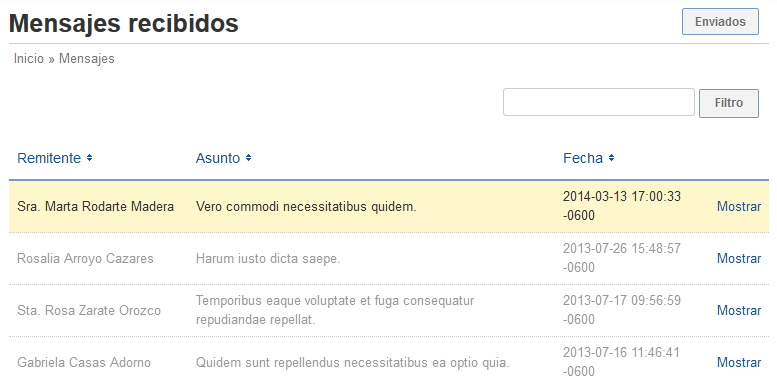
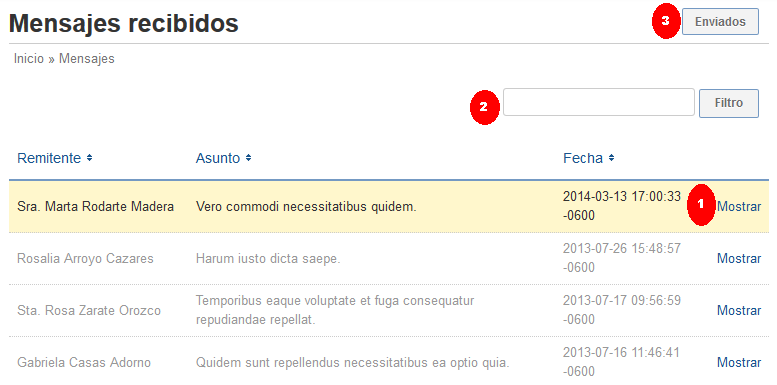
Estudiantes

Changed region(s): [[0.8649, 0.4675, 0.9266, 0.5922], [0.834, 0.0, 0.8958, 0.1247], [0.5869, 0.2182, 0.6486, 0.3429]]

diff --git a/docs/estudiantes.md b/docs/estudiantes.md
@@ -1,0 +1,276 @@
+---
+layout: docs
+title: Estudiantes
+permalink: /docs/estudiantes/
+---
+
+Al ingresar en la opción *Estudiantes* en el menú se desplegará un listado de los estudiantes del sistema con la opción para ingresar al 
+[expediente del estudiante](#expediente_del_estudiante):
+
+![listado](/img/docs/estudiantes_index.png)
+
+Adicionalmente, el listado cuenta con las siguientes opciones:
+
+- Por defecto, se muestran los estudiantes del periodo lectivo actual. Si se quiere visualizar información histórica, se debe *Mostrar filtros* **(1)**
+  y seleccionar un periodo lectivo diferente.
+- Si el número de estudiantes es demasiado extenso, se puede *Mostrar filtros* **(1)** y limitar los resultados por código, nombres y/o apellidos,
+  periodo lectivo o clase.
+- Si se cuenta con el permiso *ESTUDIANTE_CREATE*, se desbloquea la opción *Nuevo* **(2)** para [ingresar un estudiante](#crear_estudiante) sin ninguna ayuda,
+  o alternativamente se puede *Importar* **(3)** la [información del estudiante](#importar_estudiante) desde el sistema administrativo.
+- Si se cuenta con el permiso *ESTUDIANTE_MANAGE*, se desbloquea la opción *Importar fotos* **(4)** que nos permite 
+  [actualizar las fotos de los estudiantes masivamente](#importar_fotos).
+
+<div class="note info">
+  <h5>Seguridad</h5>
+  <p>Para acceder a esta funcionalidad se necesita:</p>
+  <ul>
+    <li>Permiso <i>ESTUDIANTE_READ</i> para visualizar todos los estudiantes del sistema.</li>
+    <li>Objeto tipo <i>Estudiante</i> o <i>Pariente</i> para visualizar los estudiantes que estén asignados al usuario.</li>
+    <li>Objeto tipo <i>Docente</i> para visualizar todos los estudiantes que estén en una sección del cual el docente sea guía.</li>
+    <li>Objeto tipo <i>Nivel</i> o <i>Clase</i> con el rol <i>ESTUDIANTE_READ</i> para visualizar todos los estudiantes del nivel o clase determinado.</li>
+  </ul>
+</div>
+
+## Crear estudiante
+
+Al dar clic en la opción de crear estudiante se despliega el siguiente formulario:
+
+![nuevo](/img/docs/estudiantes_new.png)
+
+El formulario está dividido en diferentes secciones:
+
+- *Datos Generales*: Datos generales y de contacto del estudiante. Se puede incluir una foto para el estudiante, ya sea seleccionando una 
+  imagen en la computadora actual **(1)**, o se puede utilizar la opción *Tomar* **(2)** para tomar una fotografía desde una cámara que se 
+  encuentre conectada a la computadora.
+- *Datos Académicos*: Se debe asociar al estudiante a una sección específica, y especificar la fecha de transferencia (para estudiantes que se transfieren
+  de otros colegios) y si el estudiante es repitente.
+- *Datos Médicos*: Información médica del estudiante. Todos los campos de esta sección son opcionales.
+
+Luego de enviar el formulario exitosamente, se podrá acceder al expediente del estudiante.
+
+<div class="note info">
+  <h5>Seguridad</h5>
+  <p>Para acceder a esta funcionalidad se necesita el permiso <i>ESTUDIANTE_CREATE</i>.</p>
+</div>
+
+## Importar estudiante
+
+Alternativamente, si el estudiante ya se ha ingresado en el sistema administrativo y ya cuenta con un código de estudiante, entonces se puede
+importar dicha información utilizando esta funcionalidad:
+
+![importar](/img/docs/estudiantes_importar.png)
+
+Primeramente se debe introducir el *Código* del estudiante en el campo de texto y darle clic a la opción *Obtener datos*. En caso de éxito, se consultará
+directamente la base de datos administrativa y se extraerá la información general, académica y de los padres de familia y responsables del estudiante, la
+cual se desplegará en el mismo formulario para que el usuario la verifique antes de ingresar el estudiante:
+
+![importar](/img/docs/estudiantes_importar_2.png)
+
+En el caso de los pares de familia y responsables, se da la opción de ingresar o no individualmente cada uno de ellos:
+
+![importar](/img/docs/estudiantes_importar_3.png)
+
+<div class="note warning">
+  <h5>Errores al importar estudiante</h5>
+  <p>Para que esta funcionalidad funcione correctamente, la estructura académica debe ser igual en ambos sistemas, en particular:</p>
+  <ul>
+    <li>No debe haber un estudiante con el mismo código en el sistema.</li>
+    <li>La información a importar es únicamente la del último periodo lectivo ingresado en el sistema administrativo. Por consiguiente, si en el sistema 
+      administrativo ya están ingresadas las listas del próximo ciclo, no será posible importar la información de nuevos estudiantes del ciclo actual, incluso
+      cuando este no haya terminado.</li>
+    <li>El <i>ciclo</i> del sistema administrativo debe coincidir con el <i>nombre corto</i> del periodo lectivo actual, y este debe estar abierto.</li>
+    <li>El <i>nivel</i> del sistema administrativo debe coincidir con el <i>nombre corto</i> del nivel en el sistema.</li>
+    <li>El <i>grado</i> del sistema administrativo debe estar ingresado como una <i>clase</i> en el sistema para el nivel especificado.</li>
+    <li>La <i>sección</i> del sistema administrativo debe estar ingresada en el sistema para la clase especificada.</li>
+  </ul>
+</div>
+
+<div class="note">
+  <h5>Importar estudiantes masivamente</h5>
+  <p>Se puede hacer uso de la opción <i>Importar</i> del <a href="/docs/periodos_lectivos/#importar">periodo lectivo</a>, lo cual, además de importar las 
+    listas de estudiantes del sistema administrativo, procederá a crear nuevos usuarios con el código del estudiante como login y con el estudiante ya 
+    asignado al usuario.</p>
+</div>
+
+<div class="note info">
+  <h5>Seguridad</h5>
+  <p>Para acceder a esta funcionalidad se necesita el permiso <i>ESTUDIANTE_CREATE</i>.</p>
+</div>
+
+## Importar fotos
+
+Se puede utilizar esta opción para actualizar de forma masiva las fotos de los estudiantes del sistema:
+
+![importar_fotos](/img/docs/estudiantes_importar_fotos.png)
+
+La importación se puede llevar a cabo de 2 maneras diferentes:
+
+- Se puede subir un archivo comprimido al servidor, el cual deberá especificarse en el campo *Archivo a cargar*. Si se pretende utilizar esta opción, se
+  recomienda que las fotos se suban ya comprimidas, para que de esta forma el archivo a cargar no sea demasiado grande. Una vez se suba el archivo,
+  el sistema lo descomprimirá en una carpeta temporal.
+- Alternativamente se pueden cargar las imágenes directamente en el servidor, para lo cual deberá ingresarse la dirección local de la carpeta o archivo 
+  comprimido en el campo *Ruta archivo o directorio*. Si la ruta corresponde a un archivo comprimido, se procederá a descomprimirlo en una carpeta temporal.
+
+En cualquiera de los dos casos, el sistema procesará las fotos en en una tarea de fondo del servidor, el cual una vez finalizado enviará una notificación
+al usuario actual con un log del procesamiento, en el que se listarán todos los archivos procesados y cualquier error que se encontrase.
+
+El sistema procesará todas las fotos que se encuentren en el directorio, no importa en qué subcarpeta estén. De esta forma, el usuario puede organizar
+las fotos en cualquier estructura de directorio que le resulte más conveniente. El único requerimiento es que las fotos deben tener como nombre de archivo
+el código del estudiante para que el sistema pueda identificar al estudiante en cuestión. De esta forma, el archivo *1234.jpg*, por ejemplo, se utilizará
+para actualizar la foto del estudiante con el código *1234*, siempre que este existiese.
+
+Las fotos subidas se guardarán con un tamaño de 768 pixeles de ancho por 1024 pixeles de alto. No importa que se ingresen fotos con mayores dimensiones,
+siempre que se respete la proporción de 3 de ancho por 4 de alto. En caso contrario, la foto será recortada en la dirección de la dimensión en exceso.
+
+<div class="note info">
+  <h5>Seguridad</h5>
+  <p>Para acceder a esta funcionalidad se necesita el permiso <i>ESTUDIANTE_MANAGE</i>.</p>
+</div>
+
+## Expediente del estudiante
+
+![detalles](/img/docs/estudiantes_show.png)
+
+Las opciones de esta pantalla son las siguientes:
+
+- Opción para [enviar un mensaje](/docs/mensajes/#crear_mensaje) **(1)** privado a este estudiante.
+- Opción para *Editar* los detalles del estudiante **(2)**, si se cuenta con el permiso *ESTUDIANTE_UPDATE* y el periodo lectivo está abierto, 
+  lo cual desplegará el formulario de actualización de estudiante con la mayoría de los campos del [formulario de creación](#crear_estudiante).
+- Opción para *Eliminar* el estudiante **(3)**, si se cuenta con el permiso *ESTUDIANTE_MANAGE*, el periodo lectivo esté abierto y el estudiante
+  no tenga calificaciones ingresadas.
+
+Por su parte, los detalles del expediente del estudiante se visualizan en las siguientes pestañas:
+
+### General
+
+Información general del estudiante, la cual se mantiene estática o cambia muy esporádicamente. Contiene mayormente información básica y de contacto
+del estudiante (código, nombres y apellidos, dirección, fecha y lugar de nacimiento, etc.).
+
+En la parte inferior se puede acceder a un registro de cambios **(4)** en el que se puede visualizar las modificaciones que ha sufrido la 
+información a lo largo del tiempo:
+
+![historial](/img/docs/estudiante_historial.png)
+
+Para las acciones de modificación se puede visualizar los detalles del expediente del estudiante antes de efectuarse la modificación:
+
+![historial](/img/docs/estudiante_show_version.png)
+
+- La opción *Restaurar* **(1)** se puede utilizar para revertir la información del estudiante, lo cual puede ser útil para revertir errores
+  al modificar el expediente. Para esto se necesita el permiso *ESTUDIANTE_UPDATE*.
+- La opción *Eliminar* **(2)** puede ser útil si se quiere limpiar el historial del estudiante si acaso se incurrió en algún error durante su
+  modificación. Para esto se necesita el permiso *ESTUDIANTE_MANAGE*.
+
+### Académico
+
+Información académica del estudiante, la cual es diferente para cada periodo lectivo (periodo lectivo, nivel, grado, sección, docente guía, etc.).
+
+![academico](/img/docs/estudiantes_show_academico.png)
+
+- Se puede [visualizar la clase](/docs/clases/#detalles_de_la_clase) **(1)** del estudiante si se cuenta con el permiso *CLASE_READ*.
+- Se puede [visualizar la sección](/docs/secciones/#detalles_de_la_seccion) **(2)** del estudiante si se cuenta con el permiso *SECCION_READ*. Adicionalmente, 
+  si se cuenta con el permiso *ESTUDIANTE_CLASE_MANAGE*, se puede acceder a la opción para transferir al estudiante a una sección diferente.
+- Se puede [visualizar el docente guía](/docs/docentes/#expediente_del_docente) **(3)** del estudiante si se cuenta con el permiso *DOCENTE_READ*.
+  Adicionalmente, se cuenta con la opción para [enviarle un mensaje privado](/docs/mensajes/#crear_mensaje).
+
+Cabe mencionar que las pestañas de *Materias*, *Horarios*, *Médico* e *Incidencias* dependen de la información académica que se tenga seleccionada. Por esta razón,
+en la parte inferior de esta pestaña se muestran enlaces **(4)** para visualizar el expediente y calificaciones del estudiante en dicho periodo lectivo.
+
+<div class="note warning">
+  <h5>Transferencia de estudiante</h5>
+  <p>Al transferir al estudiante a mitad del periodo lectivo se debe ser cuidadoso con las calificaciones existentes, puesto que estas no serán eliminadas, 
+    y puede con facilidad dar lugar al ingreso de calificaciones duplicadas para el estudiante, excediendo el porcentaje de acumulado definido para la materia.
+    Queda a criterio del docente efectuar los ajustes necesarios en estos casos.</p>
+</div>
+
+### Materias
+
+En esta pestaña se muestra un listado de las materias que cursa el estudiante para el periodo lectivo seleccionado en la pestaña *Académico*.
+
+![academico](/img/docs/estudiantes_show_materias.png)
+
+- Se puede [visualizar la materia](/docs/materias/#detalles_de_la_materia) **(1)** si se cuenta con el permiso *MATERIA_READ*.
+- Se puede [visualizar el docente](/docs/docentes/#expediente_del_docente) **(2)** que imparte la materia si se cuenta con el permiso *DOCENTE_READ*. Adicionalmente,
+  se cuenta con la opción para [enviarle un mensaje privado](/docs/mensajes/#crear_mensaje).
+- Se pueden visualizar todas evaluaciones, exámenes y consolidados de la materia, con sus respectivas descripciones y observaciones, al darle clic a la opción
+  *Detalle* **(3)**:
+
+![calificacion](/img/docs/estudiante_calificacion.png)
+
+Alternativamente, se pueden visualizar las calificaciones del estudiante en su totalidad al acceder al enlace *Calificaciones* en la pestaña de *Materias* **(4)**, 
+la cual se muestra de la siguiente manera:
+
+![calificacion](/img/docs/estudiante_calificaciones.png)
+
+La hoja de calificaciones contiene en forma tabular todas las calificaciones del estudiante para todas las materias que se encuentra cursando. Esta información se 
+encuentra organizada en los diferentes bloques evaluativos o bimestres que conforman el periodo lectivo
+
+<div class="note info">
+  <h5>Opciones de visualización de la hoja de calificaciones</h5>
+  <ul>
+    <li>Las evaluaciones se encuentran ocultas por defecto y solo se muestra la columna del <i>Total Acumulado</i>. Para desplegarlas, dar clic en la cabecera del
+      bloque evaluativo <b>(3)</b></li>
+    <li>Puesto que el área de la pantalla se encuentra reducida por el menú y estilo del sistema, se recomienda maximizar el área de contenido dando clic en el 
+      ícono <i>Cambiar modo de pantalla</i> localizado en la esquina superior izquierda de la pantalla. Adicionalmente, el reporte cuenta con una barra de desplazamiento
+      horizontal en la parte inferior de la pantalla <b>(5)</b> para facilitar su visualización</li>
+    <li>Al situar el cursor encima de cualquier evaluación o examen se visualizará una burbuja mostrando el porcentaje de la evaluación en el total de la calificación.
+      Si la calificación se encuentra subrayada <b>(4)</b>, se le mostrarán adicionalmente los comentarios del docente</li>
+  </ul>
+</div>
+
+Alternativamente, se puede exportar la información de este reporte en formato Excel de dos formas diferentes:
+
+- Si únicamente interesan los bloques consolidados, se puede utilizar la opción *Exportar todo* **(1)**, lo cual exporta las notas bimestrales, semestrales y finales
+  y los despliega como un boletín de calificaciones
+- Si se quiere visualizar el detalle de las evaluaciones, la opción **Exportar BLOQUE** **(2)** resulta más adecuada, puesto que exporta todas las calificaciones
+  del bloque evaluativo que se seleccione, incluyendo los detalles de las evaluaciones y comentarios del docente
+
+### Horario
+
+Muestra el horario de clases del estudiante, si acaso estuviese disponible.
+
+![horario](/img/docs/estudiantes_show_horario.png)
+
+### Médico
+
+Muestra el expediente médico del estudiante, con su información general (altura, peso, tipo de sangre, alergias, etc.), así como también una bitácora médica con
+sucesos médicos propios del estudiante.
+
+![medico](/img/docs/estudiantes_show_medico.png)
+
+Si se cuenta con el permiso *ESTUDIANTE_MEDICO* y el periodo lectivo está abierto, se podrá tanto *Editar* **(1)** los datos básicos del expediente, como
+*Agregar* **(2)** nuevos sucesos a la bitácora médica del estudiante, lo cual nos desplegará el siguiente formulario:
+
+![medico](/img/docs/estudiantes_show_medico_create.png)
+
+Una vez ingresado el suceso, se podrá [visualizar los detalles del suceso](/docs/registro_medicos/#detalles_del_suceso) **(3)**.
+
+### Padres y Responsables
+
+Muestra los nombres e información de contacto del padre, madre y responsable(s) del estudiante.
+
+![responsables](/img/docs/estudiantes_show_responsables.png)
+
+Si existen responsables asignados al estudiante, se presentan las siguientes opciones:
+
+- Opción para *Eliminar* **(1)** la información del responsable, si se cuenta con el permiso *PARIENTE_MANAGE*. Si el responsable únicamente está asociado a este estudiante,
+  entonces se eliminará; caso contrario, solamente se eliminará la asociación.
+- Opción para *Editar* **(2)** la información del responsable, si se cuenta con el permiso *PARIENTE_UPDATE*.
+- Opción para *Mostrar* **(3)** la [información del responsable](/docs/parientes/#detalles_del_pariente), si se cuenta con el permiso *PARIENTE_READ*.
+- Al igual que el expediente de los estudiantes, se puede acceder a un registro de cambios **(4)** en el que se puede visualizar las modificaciones que ha sufrido la 
+  información a lo largo del tiempo
+
+Si el estudiante no tiene un padre o madre asignado, en su lugar aparecerá la opción para *Agregar* el responsable en cuestión, lo cual desplegará el 
+[formulario de creación de pariente](/docs/parientes/#crear_pariente).
+
+### Incidencias
+
+Muestra los sucesos en los que se encuentra involucrado el estudiante, que pueden afectar ya sea a toda la clase, sección o al estudiante en particular.
+
+![incidencias](/img/docs/estudiantes_show_incidencias.png)
+
+Si se cuenta con el permiso *ESTUDIANTE_UPDATE* y el periodo lectivo está abierto, se contará con la opción *Nueva* para ingresar una incidencia, lo que desplegará
+el siguiente formulario:
+
+![incidencias](/img/docs/estudiantes_show_incidencias_new.png)
+
+Una vez ingresada la incidencia, se podrá [visualizar los detalles del suceso](/docs/incidencias/#detalles_de_la_incidencia).

diff --git a/docs/seguridad.md b/docs/seguridad.md
@@ -85,9 +85,9 @@ de los estudiantes. Para lograr el resultado deseado se deberá asignar objetos 
 Para darle accesos limitados al usuario se le puede asignar un objeto determinado, lo cual le otorgará diversos permisos dependiendo del 
 tipo de objeto que se le asigne:
 
-- **Estudiante**: Permite visualizar el expediente del estudiante.
-- **Pariente**: Permite visualizar los expedientes de los estudiantes de los cuales el pariente es responsable (esto se puede visualizar
-  en el expediente del estudiante en cuestión, en la pestaña *Responsables*). 
+- **Estudiante**: Permite visualizar el expediente del estudiante, siempre y cuando estén solventes.
+- **Pariente**: Permite visualizar los expedientes de los estudiantes solventes de los cuales el pariente es responsable (esto se puede visualizar
+  en el expediente del estudiante en cuestión, en la pestaña *Responsables*).
 - **Docente**: Le otorga varios accesos al docente, dependiendo de la forma en la que esté configurado:
   - Permite visualizar y evaluar todas las materias que el docente imparta.
   - Permite visualizar las secciones (incluyendo expedientes de estudiantes, materias y evaluaciones) de los cuales esté configurado como docente guía.
@@ -109,3 +109,13 @@ del objeto (para *Nivel* o *Clase*) o *Mostrar* **(3)** directamente los detalle
 
 También se cuenta con la opción de *Nuevo* **(4)**, lo cual nos permite [crear un usuario](/docs/usuarios/#crear_usuario) con el objeto asignado, o 
 alternativamente se cuenta con la opción de *Agregar* **(5)** el objeto a un usuario existente.
+
+Se puede agregar cualquier cantidad de objetos a un usuario, lo cual permite una mayor flexibilidad al momento de definir los accesos
+permitidos para el usuario en cuestión.
+
+<div class="note">
+  <h5>Crear usuarios de estudiantes masivamente</h5>
+  <p>Para evitarse el trabajo de crear usuarios para cada uno de los estudiantes del sistema, se puede hacer uso de la opción <i>Importar</i> 
+    del <a href="/docs/periodos_lectivos/#importar">periodo lectivo</a>, lo cual, además de importar las listas de estudiantes del sistema administrativo,
+    procederá a crear nuevos usuarios con el código del estudiante como login y con el estudiante ya asignado al usuario.</p>
+</div>

diff --git a/docs/usuarios.md b/docs/usuarios.md
@@ -21,9 +21,16 @@ Las opciones adicionales que comprende esta pantalla son:
 - Por defecto se muestran únicamente los usuarios *habilitados* del sistema, es decir, aquellos que pueden iniciar sesión. Por consiguiente,
   se cuenta con la opción *Mostrar todos* **(4)**, que quita dicha restricción y muestra todos los usuarios del sistema.
 
+<div class="note">
+  <h5>Filtro avanzado</h5>
+  <p>Por opciones de rendimiento, la opción para filtrar únicamente busca coincidencias por el inicio del campo. Sin embargo, este comportamiento
+    se puede modificar si se le antepone un símbolo de porcentaje <b>%</b> al inicio de la cadena. Por ejemplo, la cadena <b>%@</b> nos filtrará
+    todos los usuarios con correo electrónico.</p>
+</div>
+
 <div class="note info">
   <h5>Seguridad</h5>
-  <p>Para acceder a esta pantalla se necesita cualquiera de los siguientes permisos: <i>USUARIO_READ</i> o <i>USUARIO_MANAGE</i>.</p>
+  <p>Para acceder a esta funcionalidad se necesita el permiso <i>USUARIO_READ</i>.</p>
 </div>
 
 ## Crear usuario
@@ -42,6 +49,11 @@ Al dar clic en la opción de crear usuario se despliega el siguiente formulario:
 
 Una vez que se envíe el formulario se creará un usuario en el sistema, y se enviará un correo electrónico al usuario con los detalles de la
 nueva cuenta creada, en caso de que se haya especificado un email válido.
+
+<div class="note info">
+  <h5>Seguridad</h5>
+  <p>Para acceder a esta funcionalidad se necesita el permiso <i>USUARIO_CREATE</i>.</p>
+</div>
 
 ## Detalles del usuario
 
